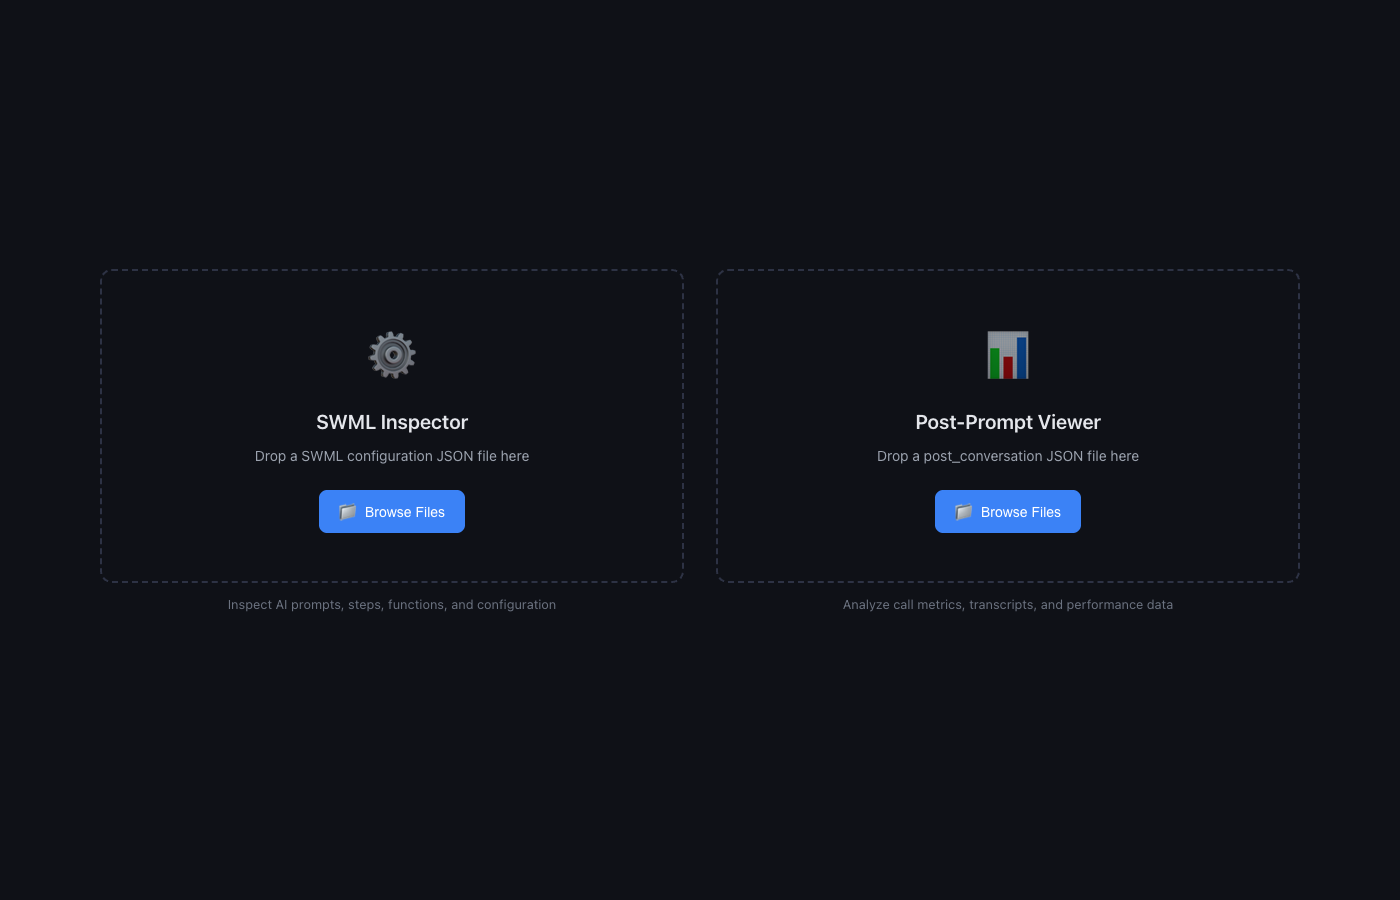
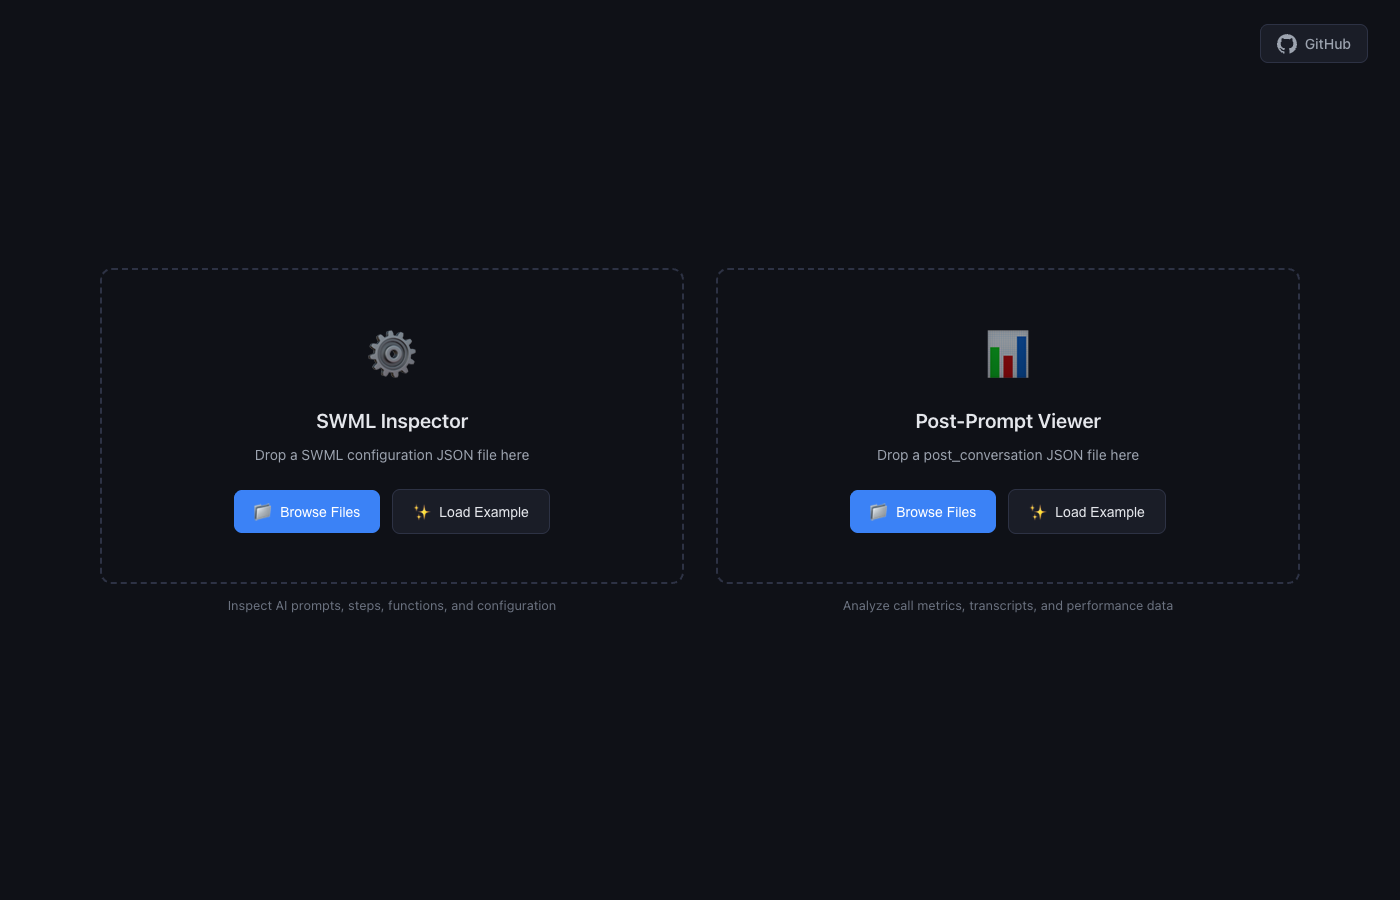
Update screen shot

diff --git a/README.md b/README.md
@@ -17,9 +17,9 @@ See [`ui/README.md`](ui/README.md) for full documentation.
 ## Screenshots
 
 ### Drop Zone (Start Screen)
-Dual upload interface supporting both Post-Prompt conversation files and SWML configuration files. Drag-and-drop or click to browse.
+Dual upload interface supporting both Post-Prompt conversation files and SWML configuration files. Features drag-and-drop, file browsing, instant example loading, and GitHub repository link.
 
-<img src="images/01-drop-zone.png" alt="Drop Zone — file upload interface" width="800" />
+<img src="images/01-drop-zone.png" alt="Drop Zone — file upload interface with example loading" width="800" />
 
 ### Dashboard
 KPI metric cards covering call duration, response latency (assistant and tool), system performance rating, conversation stats, token usage, SWAIG details, and media/billing summaries.
@@ -127,7 +127,10 @@ npm install
 npm run dev
 ```
 
-Open the URL shown in the terminal (default: `http://localhost:5173`), then drag and drop a post-conversation JSON file onto the page.
+Open the URL shown in the terminal (default: `http://localhost:5173`), then either:
+- Click **"Load Example"** to instantly try the app with sample data
+- Drag and drop your own post-conversation JSON file
+- Click **"Browse Files"** to select a file from your computer
 
 ## Building for Production
 
@@ -160,7 +163,7 @@ npm run preview
 │   ├── main.js                 # App entry: mounts components, wires tab navigation
 │   ├── state.js                # Pub/sub store for payload, metrics, UI state
 │   ├── components/
-│   │   ├── drop-zone.js        # Drag-and-drop + file picker for JSON upload
+│   │   ├── drop-zone.js        # Drag-and-drop + file picker + example loader
 │   │   ├── header.js           # Call ID, timestamps, duration badge, caller info
 │   │   ├── dashboard.js        # 4x4 grid of metric cards
 │   │   ├── charts.js           # 6 Chart.js visualizations
@@ -173,7 +176,13 @@ npm run preview
 │   └── styles/
 │       ├── theme.css           # Dark theme, CSS custom properties
 │       └── components.css      # Component-specific styles
-├── index.html                  # App shell
+├── public/
+│   ├── examples/
+│   │   ├── call.json           # Example post-conversation payload
+│   │   └── voyager.json        # Example SWML configuration
+│   ├── favicon.svg             # SignalWire favicon
+│   └── og-image.jpg            # OpenGraph social sharing image
+├── index.html                  # App shell with OpenGraph metadata
 ├── vite.config.js              # Vite configuration
 └── package.json
 ```
